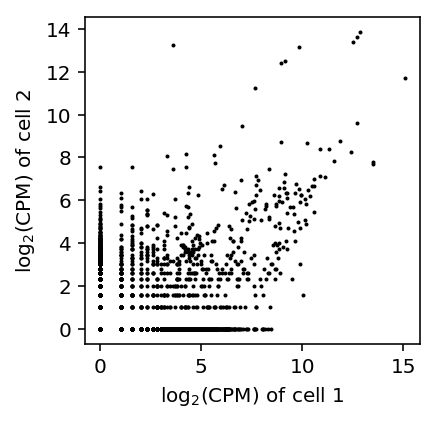
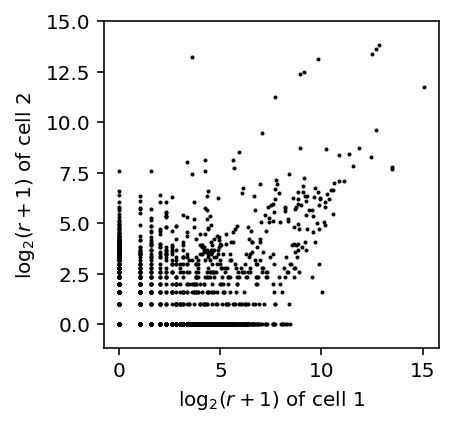
Look at fraction of zeros

diff --git a/docs/pitfalls.html b/docs/pitfalls.html
@@ -1,7 +1,7 @@
 <!DOCTYPE html>
 <html lang="en">
 <head>
-<!-- 2018-09-18 Tue 16:05 -->
+<!-- 2018-09-19 Wed 11:28 -->
 <meta charset="utf-8">
 <meta name="viewport" content="width=device-width, initial-scale=1">
 <title>Common pitfalls in estimating the number of modes of gene expression</title>
@@ -258,6 +258,7 @@ for the JavaScript code in this tag.
 <div id="text-table-of-contents">
 <ul>
 <li><a href="#orgde1f3e7">Joint distribution of expression across genes</a></li>
+<li><a href="#orgc9e381a">Mode on zero</a></li>
 <li><a href="#org3c0762c">Distribution of log CPM across cells</a></li>
 </ul>
 </div>
@@ -267,18 +268,8 @@ for the JavaScript code in this tag.
 <h2 id="orgde1f3e7">Joint distribution of expression across genes</h2>
 <div class="outline-text-2" id="text-orgde1f3e7">
 <p>
-Reproduce Fig 1 of <a href="https://www.ncbi.nlm.nih.gov/pmc/articles/PMC4112276/">Kharchenko et al 2014</a>:
-</p>
-
-
-<div class="figure">
-<p><img src="https://www.ncbi.nlm.nih.gov/pmc/articles/PMC4112276/bin/nihms-590625-f0001.jpg" alt="nihms-590625-f0001.jpg">
-</p>
-</div>
-
-<p>
-They analyzed scRNA-Seq of mouse embryonic fibroblast cells generated by
-<a href="https://www.ncbi.nlm.nih.gov/pmc/articles/PMC3129258/">Islam et al 2011</a>.
+Reproduce <a href="https://www.ncbi.nlm.nih.gov/pmc/articles/PMC4112276/bin/nihms-590625-f0001.jpg">Fig 1C</a> of <a href="https://www.ncbi.nlm.nih.gov/pmc/articles/PMC4112276/">Kharchenko et al 2014</a>. They analyzed scRNA-Seq of mouse
+embryonic fibroblast cells generated by <a href="https://www.ncbi.nlm.nih.gov/pmc/articles/PMC3129258/">Islam et al 2011</a>.
 </p>
 
 <div class="org-src-container">
@@ -291,7 +282,7 @@ Parse the data.
 </p>
 
 <div class="org-src-container">
-<pre class="src src-ipython"><span class="org-keyword">with</span> gzip.<span class="org-builtin">open</span>(<span class="org-string">'/scratch/midway2/aksarkar/modes/GSE29087_L139_expression_tab.txt.gz'</span>, <span class="org-string">'rt'</span>) <span class="org-keyword">as</span> f:
+<pre class="src src-ipython" id="orgbac7ac6"><span class="org-keyword">with</span> gzip.<span class="org-builtin">open</span>(<span class="org-string">'/scratch/midway2/aksarkar/modes/GSE29087_L139_expression_tab.txt.gz'</span>, <span class="org-string">'rt'</span>) <span class="org-keyword">as</span> f:
   <span class="org-builtin">next</span>(f)  <span class="org-comment-delimiter"># </span><span class="org-comment">first three lines are description</span>
   <span class="org-builtin">next</span>(f)
   <span class="org-builtin">next</span>(f)
@@ -309,25 +300,25 @@ Parse the data.
 </div>
 
 <p>
-Pick two cells, and compute \(\log_2(r_{ij} + 1)\) for every gene.
+Plot the joint distribution of \(\log_2\) expression values across a pair of
+cells.
 </p>
 
 <div class="org-src-container">
-<pre class="src src-ipython"><span class="org-variable-name">x</span> = np.log(counts[1] + 1) / np.log(2)
-<span class="org-variable-name">y</span> = np.log(counts[2] + 1) / np.log(2)
+<pre class="src src-ipython"><span class="org-keyword">def</span> <span class="org-function-name">plot_joint_dist_two_cells</span>(x, y):
+  <span class="org-variable-name">x</span> = np.log(x + 1) / np.log(2)
+  <span class="org-variable-name">y</span> = np.log(y + 1) / np.log(2)
+  plt.clf()
+  plt.gcf().set_size_inches(3, 3)
+  plt.scatter(x, y, c=<span class="org-string">'k'</span>, s=1)
+  plt.axis(<span class="org-string">'equal'</span>)
+  plt.xlabel(<span class="org-string">'$\log_2(r + 1)$ of cell 1'</span>)
+  plt.ylabel(<span class="org-string">'$\log_2(r + 1)$ of cell 2'</span>)
 </pre>
 </div>
 
-<p>
-Plot the joint distribution of expression values across the two cells.
-</p>
-
 <div class="org-src-container">
-<pre class="src src-ipython">plt.clf()
-plt.gcf().set_size_inches(3, 3)
-plt.scatter(x, y, c=<span class="org-string">'k'</span>, s=1)
-plt.xlabel(<span class="org-string">'$\log_2(r + 1)$ of cell 1'</span>)
-<span class="org-variable-name">_</span> = plt.ylabel(<span class="org-string">'$\log_2(r + 1)$ of cell 2'</span>)
+<pre class="src src-ipython">plot_joint_dist_two_cells(counts[1], counts[2])
 </pre>
 </div>
 
@@ -338,8 +329,8 @@ plt.xlabel(<span class="org-string">'$\log_2(r + 1)$ of cell 1'</span>)
 </div>
 
 <p>
-Now, simulate negative binomial count data, assuming 25,000 molecules per
-cell and a range of parameters <a href="https://users.rcc.uchicago.edu/~aksarkar/singlecell-qtl/zinb.html#orgac1f6dc">matching real data</a>:
+Now, simulate count data, assuming 25,000 molecules per
+cell and a range of parameters <a href="https://users.rcc.uchicago.edu/~aksarkar/singlecell-qtl/figure/zinb.org/joint-distribution.png">matching real data</a>:
 </p>
 
 <p>
@@ -350,26 +341,30 @@ cell and a range of parameters <a href="https://users.rcc.uchicago.edu/~aksarkar
 \[ \lambda_{ij} \sim \mathrm{Gamma}(\mu, \phi) \]
 </p>
 
-
-<div class="figure">
-<p><img src="https://users.rcc.uchicago.edu/~aksarkar/singlecell-qtl/figure/zinb.org/joint-distribution.png" alt="joint-distribution.png">
-</p>
-</div>
-
 <div class="org-src-container">
-<pre class="src src-ipython">np.random.seed(0)
-<span class="org-variable-name">mu</span> = np.exp(np.random.uniform(-15, -4, size=10000))
-<span class="org-variable-name">phi</span> = np.exp(np.random.uniform(-4, 1, size=10000))
-<span class="org-variable-name">size</span> = 2.5e4
-<span class="org-variable-name">x</span> = np.log(np.random.poisson(lam=size * mu * np.random.gamma(phi, phi)) + 1) / np.log(2)
-<span class="org-variable-name">y</span> = np.log(np.random.poisson(lam=size * mu * np.random.gamma(phi, phi)) + 1) / np.log(2)
+<pre class="src src-ipython"><span class="org-keyword">def</span> <span class="org-function-name">simulate_counts</span>(num_cells, num_genes, size, nb=<span class="org-constant">False</span>, zi=<span class="org-constant">False</span>, seed=<span class="org-constant">None</span>):
+  <span class="org-keyword">if</span> seed <span class="org-keyword">is</span> <span class="org-keyword">not</span> <span class="org-constant">None</span>:
+    np.random.seed(seed)
+  <span class="org-variable-name">mu</span> = np.exp(np.random.uniform(-15, -4, size=(1, num_genes)))
+  <span class="org-keyword">if</span> nb:
+    <span class="org-variable-name">phi</span> = np.exp(np.random.uniform(-4, 1, size=(1, num_genes)))
+    <span class="org-variable-name">u</span> = np.random.gamma(phi, phi, size=(num_cells, num_genes))
+  <span class="org-keyword">else</span>:
+    <span class="org-variable-name">u</span> = 1
+  <span class="org-variable-name">x</span> = np.random.poisson(lam=size * mu * u, size=(num_cells, num_genes))
+  <span class="org-keyword">return</span> x
 </pre>
 </div>
 
+<p>
+First, simulate Poisson data.
+</p>
+
 <div class="org-src-container">
-<pre class="src src-ipython">plt.clf()
+<pre class="src src-ipython"><span class="org-variable-name">x</span>, <span class="org-variable-name">y</span> = simulate_counts(num_cells=2, num_genes=10000, size=2.5e4, seed=0)
+plt.clf()
 plt.gcf().set_size_inches(3, 3)
-plt.scatter(x, y, c=<span class="org-string">'k'</span>, s=1)
+plt.scatter(np.log(x + 1) / np.log(2), np.log(y + 1) / np.log(2), c=<span class="org-string">'k'</span>, s=1)
 plt.xlabel(<span class="org-string">'$\log_2(r + 1)$ of cell 1'</span>)
 <span class="org-variable-name">_</span> = plt.ylabel(<span class="org-string">'$\log_2(r + 1)$ of cell 2'</span>)
 </pre>
@@ -382,9 +377,112 @@ plt.xlabel(<span class="org-string">'$\log_2(r + 1)$ of cell 1'</span>)
 </div>
 
 <p>
+Now, simulate negative binomial data.
+</p>
+
+<div class="org-src-container">
+<pre class="src src-ipython"><span class="org-variable-name">x</span>, <span class="org-variable-name">y</span> = simulate_counts(num_cells=2, num_genes=10000, size=2.5e4, nb=<span class="org-constant">True</span>, seed=0)
+plt.clf()
+plt.gcf().set_size_inches(3, 3)
+plt.scatter(np.log(x + 1) / np.log(2), np.log(y + 1) / np.log(2), c=<span class="org-string">'k'</span>, s=1)
+plt.xlabel(<span class="org-string">'$\log_2(r + 1)$ of cell 1'</span>)
+<span class="org-variable-name">_</span> = plt.ylabel(<span class="org-string">'$\log_2(r + 1)$ of cell 2'</span>)
+</pre>
+</div>
+
+
+<div class="figure">
+<p><img src="figure/pitfalls.org/nb.png" alt="nb.png">
+</p>
+</div>
+
+<p>
 The results suggest that the observed pattern of zeros in the joint
 distribution of genes across cells can arise simply from Poisson
 sampling. The observed outliers can be explained by overdispersion as well.
+</p>
+</div>
+</div>
+
+<div id="outline-container-orgc9e381a" class="outline-2">
+<h2 id="orgc9e381a">Mode on zero</h2>
+<div class="outline-text-2" id="text-orgc9e381a">
+<p>
+Reproduce <a href="https://www.ncbi.nlm.nih.gov/pmc/articles/PMC4112276/bin/nihms-590625-f0001.jpg">Fig. 1E</a> of <a href="https://www.ncbi.nlm.nih.gov/pmc/articles/PMC4112276/">Kharchenko et al 2014</a>. We observed a similar
+relationship between \(\mathrm{logit}(\pi)\) and \(\ln\mu\) in iPSCs.
+</p>
+
+<div class="org-src-container">
+<pre class="src src-ipython"><span class="org-variable-name">log_mu</span> = pd.read_table(<span class="org-string">'/project2/mstephens/aksarkar/projects/singlecell-qtl/data/density-estimation/design1/zi2-log-mu.txt.gz'</span>, index_col=0, sep=<span class="org-string">' '</span>)
+<span class="org-variable-name">log_phi</span> = pd.read_table(<span class="org-string">'/project2/mstephens/aksarkar/projects/singlecell-qtl/data/density-estimation/design1/zi2-log-phi.txt.gz'</span>, index_col=0, sep=<span class="org-string">' '</span>)
+<span class="org-variable-name">logodds</span> = pd.read_table(<span class="org-string">'/project2/mstephens/aksarkar/projects/singlecell-qtl/data/density-estimation/design1/zi2-logodds.txt.gz'</span>, index_col=0, sep=<span class="org-string">' '</span>)
+</pre>
+</div>
+
+<div class="org-src-container">
+<pre class="src src-ipython">plt.clf()
+plt.gcf().set_size_inches(3, 3)
+<span class="org-variable-name">x</span>, <span class="org-variable-name">y</span> = log_mu[<span class="org-string">'NA18507'</span>].align(logodds[<span class="org-string">'NA18507'</span>], join=<span class="org-string">'inner'</span>)
+plt.scatter(x, y, c=<span class="org-string">'k'</span>, s=1, alpha=0.25)
+plt.xlabel(<span class="org-string">'$\ln(\mu)$'</span>)
+<span class="org-variable-name">_</span> = plt.ylabel(<span class="org-string">'$\mathrm{logit}(\pi)$'</span>)
+</pre>
+</div>
+
+
+<div class="figure">
+<p><img src="figure/pitfalls.org/ipsc-zinb.png" alt="ipsc-zinb.png">
+</p>
+</div>
+
+<p>
+Now, simulate Poisson data and compute the empirical fraction of zeros.
+</p>
+
+<div class="org-src-container">
+<pre class="src src-ipython"><span class="org-variable-name">x</span> = simulate_counts(num_cells=1000, num_genes=10000, size=2.5e4, seed=2)
+plt.clf()
+plt.gcf().set_size_inches(3, 3)
+plt.scatter(np.log(x.mean(axis=0) / 2.5e4), (x == 0).mean(axis=0), c=<span class="org-string">'k'</span>, s=1, alpha=0.25)
+plt.xlabel(<span class="org-string">'$\ln(\hat\mu)$'</span>)
+<span class="org-variable-name">_</span> = plt.ylabel(<span class="org-string">'Empirical fraction of zeros'</span>)
+</pre>
+</div>
+
+
+<div class="figure">
+<p><img src="figure/pitfalls.org/pois-pi0.png" alt="pois-pi0.png">
+</p>
+</div>
+
+<p>
+Do the same for negative binomial data.
+</p>
+
+<div class="org-src-container">
+<pre class="src src-ipython"><span class="org-variable-name">x</span> = simulate_counts(num_cells=1000, num_genes=10000, size=2.5e4, nb=<span class="org-constant">True</span>, seed=2)
+plt.clf()
+plt.gcf().set_size_inches(3, 3)
+plt.scatter(np.log(x.mean(axis=0) / 2.5e4), (x == 0).mean(axis=0), c=<span class="org-string">'k'</span>, s=1, alpha=0.25)
+plt.xlabel(<span class="org-string">'$\ln(\hat\mu)$'</span>)
+<span class="org-variable-name">_</span> = plt.ylabel(<span class="org-string">'Empirical fraction of zeros'</span>)
+</pre>
+</div>
+
+
+<div class="figure">
+<p><img src="figure/pitfalls.org/nb-pi0.png" alt="nb-pi0.png">
+</p>
+</div>
+
+<p>
+The results suggest that even non-zero inflated data will have a sigmoidal
+relationship between the fraction of zeros and mean expression. 
+</p>
+
+<p>
+However, the results also suggest that zero-inflation is needed to explain
+the particular shape of the dependence observed in real data.
 </p>
 </div>
 </div>
@@ -393,14 +491,8 @@ sampling. The observed outliers can be explained by overdispersion as well.
 <h2 id="org3c0762c">Distribution of log CPM across cells</h2>
 <div class="outline-text-2" id="text-org3c0762c">
 <p>
-Reproduce Fig 1C from <a href="https://genomebiology.biomedcentral.com/articles/10.1186/s13059-016-0927-y#Sec13">Bacher and Kendziorski 2016</a>:
+Reproduce <a href="https://media.springernature.com/lw785/springer-static/image/art%3A10.1186%2Fs13059-016-0927-y/MediaObjects/13059_2016_927_Fig1_HTML.gif">Fig 1C</a> from <a href="https://genomebiology.biomedcentral.com/articles/10.1186/s13059-016-0927-y#Sec13">Bacher and Kendziorski 2016</a>.  
 </p>
-
-
-<div class="figure">
-<p><img src="https://media.springernature.com/lw785/springer-static/image/art:10.1186/s13059-016-0927-y/MediaObjects/13059_2016_927_Fig1_HTML.gif" alt="13059_2016_927_Fig1_HTML.gif">
-</p>
-</div>
 
 <p>
 Data set <i>sc2</i> is scRNA-Seq of hESCs generated in <a href="https://www.ncbi.nlm.nih.gov/pubmed/26301841">Leng et al 2015</a>.
@@ -532,7 +624,7 @@ data (despite optimizing BIC).
 </div>
 <div id="postamble" class="status">
 <p class="author">Author: Abhishek Sarkar</p>
-<p class="date">Created: 2018-09-18 Tue 16:05</p>
+<p class="date">Created: 2018-09-19 Wed 11:28</p>
 <p class="validation"><a href="http://validator.w3.org/check?uri=referer">Validate</a></p>
 </div>
 </body>
